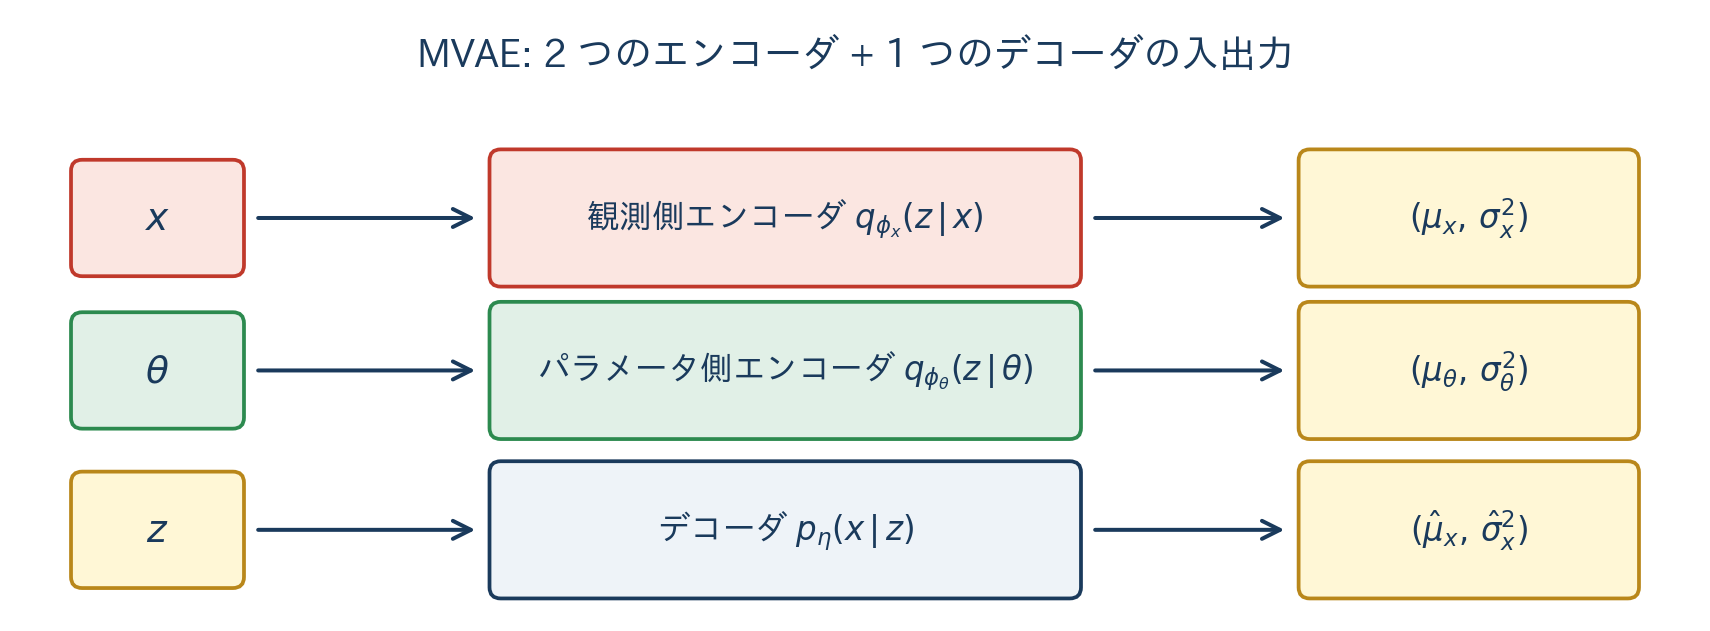
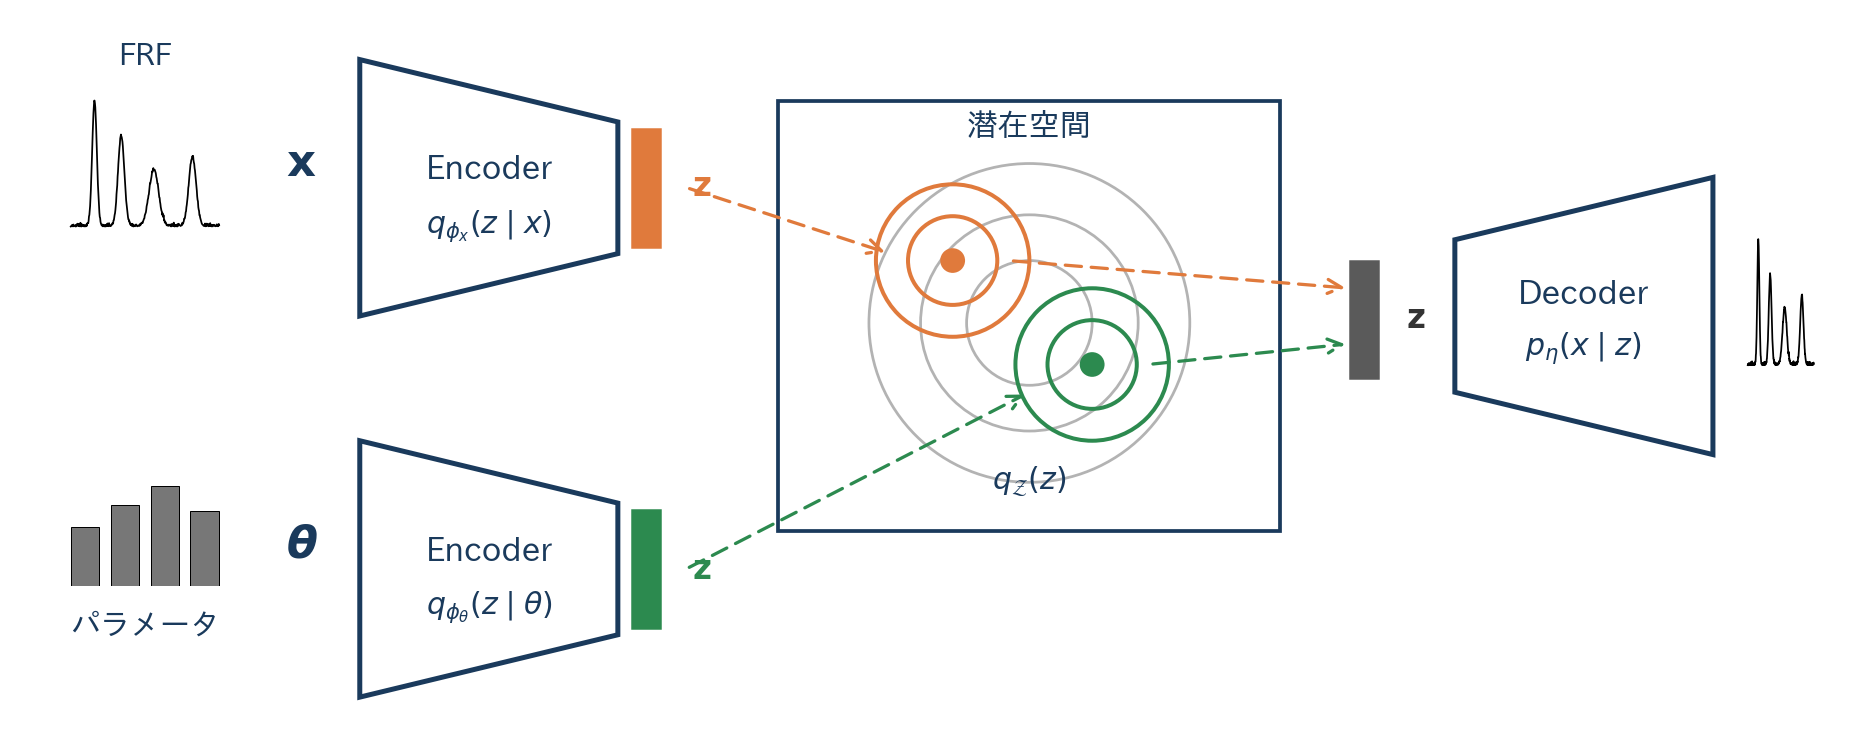
update presentation

diff --git a/docs/presentation/assets/make_figures.py b/docs/presentation/assets/make_figures.py
@@ -10,7 +10,7 @@ from pathlib import Path
 import japanize_matplotlib  # noqa: F401  -- registers IPAex Gothic for plt
 import matplotlib.pyplot as plt
 import numpy as np
-from matplotlib.patches import FancyArrowPatch, FancyBboxPatch
+from matplotlib.patches import Circle, FancyArrowPatch, FancyBboxPatch, Polygon, Rectangle
 
 ASSETS = Path(__file__).parent
 
@@ -55,10 +55,11 @@ class L10n:
     latent_obs: str
     latent_theta: str
     latent_prior: str
-    mvae_io_title: str
-    mvae_io_enc_x: str
-    mvae_io_enc_th: str
+    mvae_io_enc: str
     mvae_io_dec: str
+    mvae_io_input_x: str
+    mvae_io_input_th: str
+    mvae_io_latent: str
 
 
 JA = L10n(
@@ -91,10 +92,11 @@ JA = L10n(
     latent_obs="観測 $q_{\\phi_x}$",
     latent_theta="$\\theta$ 候補 $q_{\\phi_\\theta}$",
     latent_prior="$p(z)\\!=\\!\\mathcal{N}(0,I)$\n(破線, 潜在事前)",
-    mvae_io_title="MVAE: 2 つのエンコーダ + 1 つのデコーダの入出力",
-    mvae_io_enc_x="観測側エンコーダ $q_{\\phi_x}(z\\,|\\,x)$",
-    mvae_io_enc_th="パラメータ側エンコーダ $q_{\\phi_\\theta}(z\\,|\\,\\theta)$",
-    mvae_io_dec="デコーダ $p_\\eta(x\\,|\\,z)$",
+    mvae_io_enc="Encoder",
+    mvae_io_dec="Decoder",
+    mvae_io_input_x="FRF",
+    mvae_io_input_th="パラメータ",
+    mvae_io_latent="潜在空間",
 )
 
 EN = L10n(
@@ -127,10 +129,11 @@ EN = L10n(
     latent_obs="Obs. $q_{\\phi_x}$",
     latent_theta=r"$\theta$ cand. $q_{\phi_\theta}$",
     latent_prior="$p(z)\\!=\\!\\mathcal{N}(0,I)$\n(dashed, latent prior)",
-    mvae_io_title="MVAE: I/O of the two encoders and one decoder",
-    mvae_io_enc_x="Observation encoder $q_{\\phi_x}(z\\,|\\,x)$",
-    mvae_io_enc_th="Parameter encoder $q_{\\phi_\\theta}(z\\,|\\,\\theta)$",
-    mvae_io_dec="Decoder $p_\\eta(x\\,|\\,z)$",
+    mvae_io_enc="Encoder",
+    mvae_io_dec="Decoder",
+    mvae_io_input_x="FRF",
+    mvae_io_input_th="parameter",
+    mvae_io_latent="Latent Space",
 )
 
 
@@ -359,49 +362,166 @@ def make_latent_overlap(loc: L10n):
     plt.close(fig)
 
 
-# ---------- figure 4: MVAE I/O ----------
+# ---------- figure 4: MVAE I/O (paper Fig.1 style) ----------
 
 
 def make_mvae_io(loc: L10n):
-    fig, ax = plt.subplots(figsize=(12, 4.3))
-    ax.set_xlim(0, 12)
-    ax.set_ylim(0, 4.3)
+    fig, ax = plt.subplots(figsize=(13, 5.0))
+    ax.set_xlim(0, 13)
+    ax.set_ylim(0, 5.0)
     ax.axis("off")
 
-    ax.text(
-        6.0, 3.95, loc.mvae_io_title,
-        ha="center", fontsize=15, color="#1a3a5c", fontweight="bold",
+    orange = "#e07a3c"
+    green = "#2c8a4f"
+    outline = "#1a3a5c"
+    prior_gray = "#b3b3b3"
+
+    # ---- input FRF (mini plot, top-left) ----
+    rng = np.random.default_rng(7)
+    f = np.linspace(0, 1, 400)
+    frf = (
+        np.exp(-((f - 0.16) / 0.022) ** 2) * 1.00
+        + np.exp(-((f - 0.34) / 0.030) ** 2) * 0.72
+        + np.exp(-((f - 0.56) / 0.045) ** 2) * 0.45
+        + np.exp(-((f - 0.82) / 0.035) ** 2) * 0.55
+        + 0.04
+        + np.abs(rng.normal(0, 0.012, len(f)))
     )
+    in_x = ax.inset_axes([0.025, 0.69, 0.090, 0.20])
+    in_x.plot(f, frf, color="black", linewidth=0.7)
+    in_x.set_xticks([])
+    in_x.set_yticks([])
+    for s in in_x.spines.values():
+        s.set_visible(False)
+    ax.text(0.91, 4.66, loc.mvae_io_input_x, fontsize=12,
+            ha="center", color=outline)
+    ax.text(1.92, 3.95, r"$\mathbf{x}$", fontsize=18,
+            color=outline, fontweight="bold", va="center")
 
-    rows = [
-        # (y, input_label, input_color, net_label, net_fc, net_ec, output_label)
-        (
-            2.85,
-            "$x$", ("#fbe6e1", "#c0392b"),
-            loc.mvae_io_enc_x, "#fbe6e1", "#c0392b",
-            "$(\\mu_x,\\, \\sigma_x^2)$",
-        ),
-        (
-            1.75,
-            "$\\theta$", ("#e1f0e7", "#2c8a4f"),
-            loc.mvae_io_enc_th, "#e1f0e7", "#2c8a4f",
-            "$(\\mu_\\theta,\\, \\sigma_\\theta^2)$",
-        ),
-        (
-            0.6,
-            "$z$", ("#fff7d6", "#b9871a"),
-            loc.mvae_io_dec, "#eef3f8", "#1a3a5c",
-            "$(\\hat\\mu_x,\\, \\hat\\sigma_x^2)$",
-        ),
-    ]
+    # ---- input parameter theta (mini bar chart, bottom-left) ----
+    in_th = ax.inset_axes([0.025, 0.18, 0.090, 0.18])
+    bars = [0.62, 0.85, 1.05, 0.78]
+    in_th.bar(range(4), bars, color="#777", edgecolor="black",
+              linewidth=0.4, width=0.72)
+    in_th.set_ylim(0, 1.3)
+    in_th.set_xticks([])
+    in_th.set_yticks([])
+    for s in in_th.spines.values():
+        s.set_visible(False)
+    ax.text(0.91, 0.55, loc.mvae_io_input_th, fontsize=12,
+            ha="center", color=outline)
+    ax.text(1.92, 1.20, r"$\boldsymbol{\theta}$", fontsize=18,
+            color=outline, fontweight="bold", va="center")
 
-    for y, in_lbl, in_col, net_lbl, net_fc, net_ec, out_lbl in rows:
-        _box(ax, (1.0, y), 1.2, 0.8, in_lbl, fc=in_col[0], ec=in_col[1], fontsize=15)
-        _box(ax, (5.5, y), 4.2, 0.95, net_lbl, fc=net_fc, ec=net_ec, fontsize=13)
-        _box(ax, (10.4, y), 2.4, 0.95, out_lbl,
-             fc="#fff7d6", ec="#b9871a", fontsize=13)
-        _arrow(ax, (1.65, y), (3.35, y))
-        _arrow(ax, (7.65, y), (9.15, y))
+    # ---- encoder q_phi_x (trapezoid narrowing right) ----
+    enc_x = Polygon(
+        [(2.45, 4.70), (4.30, 4.25), (4.30, 3.30), (2.45, 2.85)],
+        closed=True, facecolor="white", edgecolor=outline, linewidth=2.0,
+    )
+    ax.add_patch(enc_x)
+    ax.text(3.38, 3.90, loc.mvae_io_enc, ha="center", va="center",
+            fontsize=13, fontweight="bold", color=outline)
+    ax.text(3.38, 3.50, r"$q_{\phi_x}(z\mid x)$", ha="center", va="center",
+            fontsize=12, color=outline)
+
+    # orange z output bar
+    ax.add_patch(Rectangle((4.40, 3.35), 0.20, 0.85,
+                           facecolor=orange, edgecolor=orange))
+    ax.text(4.83, 3.78, r"$\mathbf{z}$", fontsize=13,
+            color=orange, fontweight="bold", va="center")
+
+    # ---- encoder q_phi_theta (trapezoid narrowing right) ----
+    enc_th = Polygon(
+        [(2.45, 1.95), (4.30, 1.50), (4.30, 0.55), (2.45, 0.10)],
+        closed=True, facecolor="white", edgecolor=outline, linewidth=2.0,
+    )
+    ax.add_patch(enc_th)
+    ax.text(3.38, 1.15, loc.mvae_io_enc, ha="center", va="center",
+            fontsize=13, fontweight="bold", color=outline)
+    ax.text(3.38, 0.75, r"$q_{\phi_\theta}(z\mid \theta)$",
+            ha="center", va="center", fontsize=12, color=outline)
+
+    # green z output bar
+    ax.add_patch(Rectangle((4.40, 0.60), 0.20, 0.85,
+                           facecolor=green, edgecolor=green))
+    ax.text(4.83, 1.02, r"$\mathbf{z}$", fontsize=13,
+            color=green, fontweight="bold", va="center")
+
+    # ---- Latent Space box ----
+    lx, ly, lw, lh = 5.45, 1.30, 3.60, 3.10
+    ax.add_patch(Rectangle((lx, ly), lw, lh,
+                           facecolor="white", edgecolor=outline, linewidth=1.5))
+    ax.text(lx + lw / 2, ly + lh - 0.25, loc.mvae_io_latent,
+            ha="center", fontsize=12.5, color=outline)
+
+    # prior gray rings
+    cx_p, cy_p = lx + lw / 2, ly + lh / 2 - 0.05
+    for r in (1.15, 0.78, 0.45):
+        ax.add_patch(Circle((cx_p, cy_p), r, facecolor="none",
+                            edgecolor=prior_gray, linewidth=1.1))
+
+    # orange gaussian
+    cx_o, cy_o = cx_p - 0.55, cy_p + 0.45
+    for r in (0.55, 0.32):
+        ax.add_patch(Circle((cx_o, cy_o), r, facecolor="none",
+                            edgecolor=orange, linewidth=1.6))
+    ax.add_patch(Circle((cx_o, cy_o), 0.08,
+                        facecolor=orange, edgecolor=orange))
+
+    # green gaussian
+    cx_g, cy_g = cx_p + 0.45, cy_p - 0.30
+    for r in (0.55, 0.32):
+        ax.add_patch(Circle((cx_g, cy_g), r, facecolor="none",
+                            edgecolor=green, linewidth=1.6))
+    ax.add_patch(Circle((cx_g, cy_g), 0.08,
+                        facecolor=green, edgecolor=green))
+
+    ax.text(cx_p, ly + 0.30, r"$q_{\mathcal{Z}}(z)$",
+            ha="center", fontsize=12, color=outline)
+
+    # dashed arrows: encoder outputs → latent clouds
+    ax.annotate("", xy=(cx_o - 0.45, cy_o + 0.05), xytext=(4.78, 3.78),
+                arrowprops=dict(arrowstyle="->", color=orange,
+                                linewidth=1.3, linestyle=(0, (5, 3))))
+    ax.annotate("", xy=(cx_g - 0.45, cy_g - 0.20), xytext=(4.78, 1.02),
+                arrowprops=dict(arrowstyle="->", color=green,
+                                linewidth=1.3, linestyle=(0, (5, 3))))
+
+    # dashed arrows: latent clouds → sampled z (right side)
+    z_bar_x = 9.55
+    ax.annotate("", xy=(z_bar_x, 3.05), xytext=(cx_o + 0.4, cy_o + 0.0),
+                arrowprops=dict(arrowstyle="->", color=orange,
+                                linewidth=1.3, linestyle=(0, (5, 3))))
+    ax.annotate("", xy=(z_bar_x, 2.65), xytext=(cx_g + 0.4, cy_g - 0.0),
+                arrowprops=dict(arrowstyle="->", color=green,
+                                linewidth=1.3, linestyle=(0, (5, 3))))
+
+    # ---- sampled z bar (gray) ----
+    ax.add_patch(Rectangle((z_bar_x, 2.40), 0.20, 0.85,
+                           facecolor="#5a5a5a", edgecolor="#5a5a5a"))
+    ax.text(z_bar_x + 0.40, 2.83, r"$\mathbf{z}$", fontsize=13,
+            color="#333", fontweight="bold", va="center")
+
+    # ---- decoder (trapezoid widening right) ----
+    dec = Polygon(
+        [(10.30, 3.40), (12.15, 3.85), (12.15, 1.85), (10.30, 2.30)],
+        closed=True, facecolor="white", edgecolor=outline, linewidth=2.0,
+    )
+    ax.add_patch(dec)
+    ax.text(11.22, 3.00, loc.mvae_io_dec, ha="center", va="center",
+            fontsize=13, fontweight="bold", color=outline)
+    ax.text(11.22, 2.62, r"$p_\eta(x\mid z)$", ha="center", va="center",
+            fontsize=12, color=outline)
+
+    # ---- reconstructed FRF (mini plot, far right) ----
+    out_x = ax.inset_axes([0.952, 0.49, 0.040, 0.20])
+    out_x.plot(f, frf * 0.95, color="black", linewidth=0.7)
+    out_x.set_xticks([])
+    out_x.set_yticks([])
+    for s in out_x.spines.values():
+        s.set_visible(False)
+    ax.text(12.60, 2.85, r"$\mathbf{x}$", fontsize=18,
+            color=outline, fontweight="bold", va="center")
 
     fig.savefig(ASSETS / f"mvae_io{loc.suffix}.png")
     plt.close(fig)
